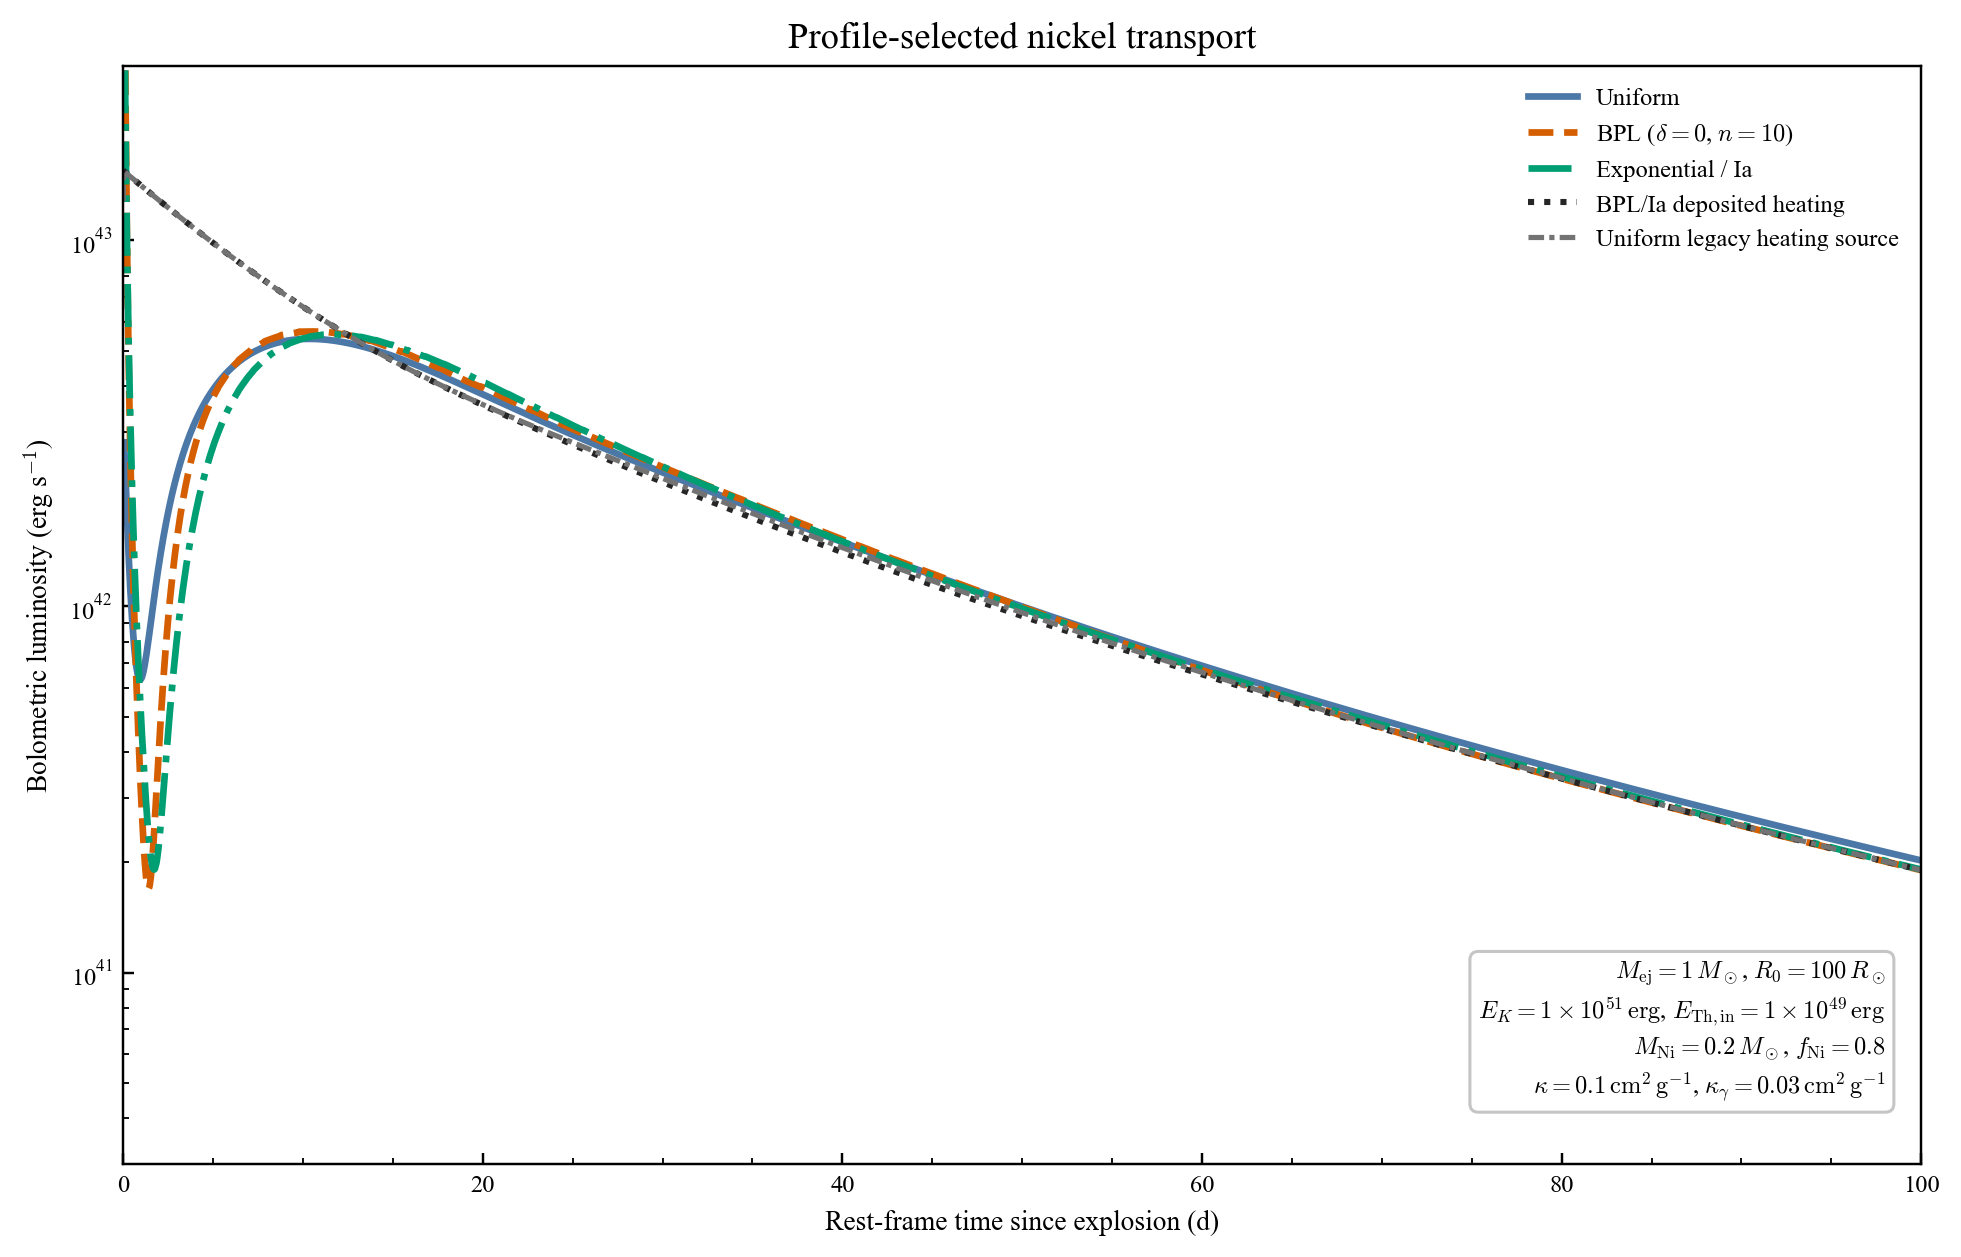
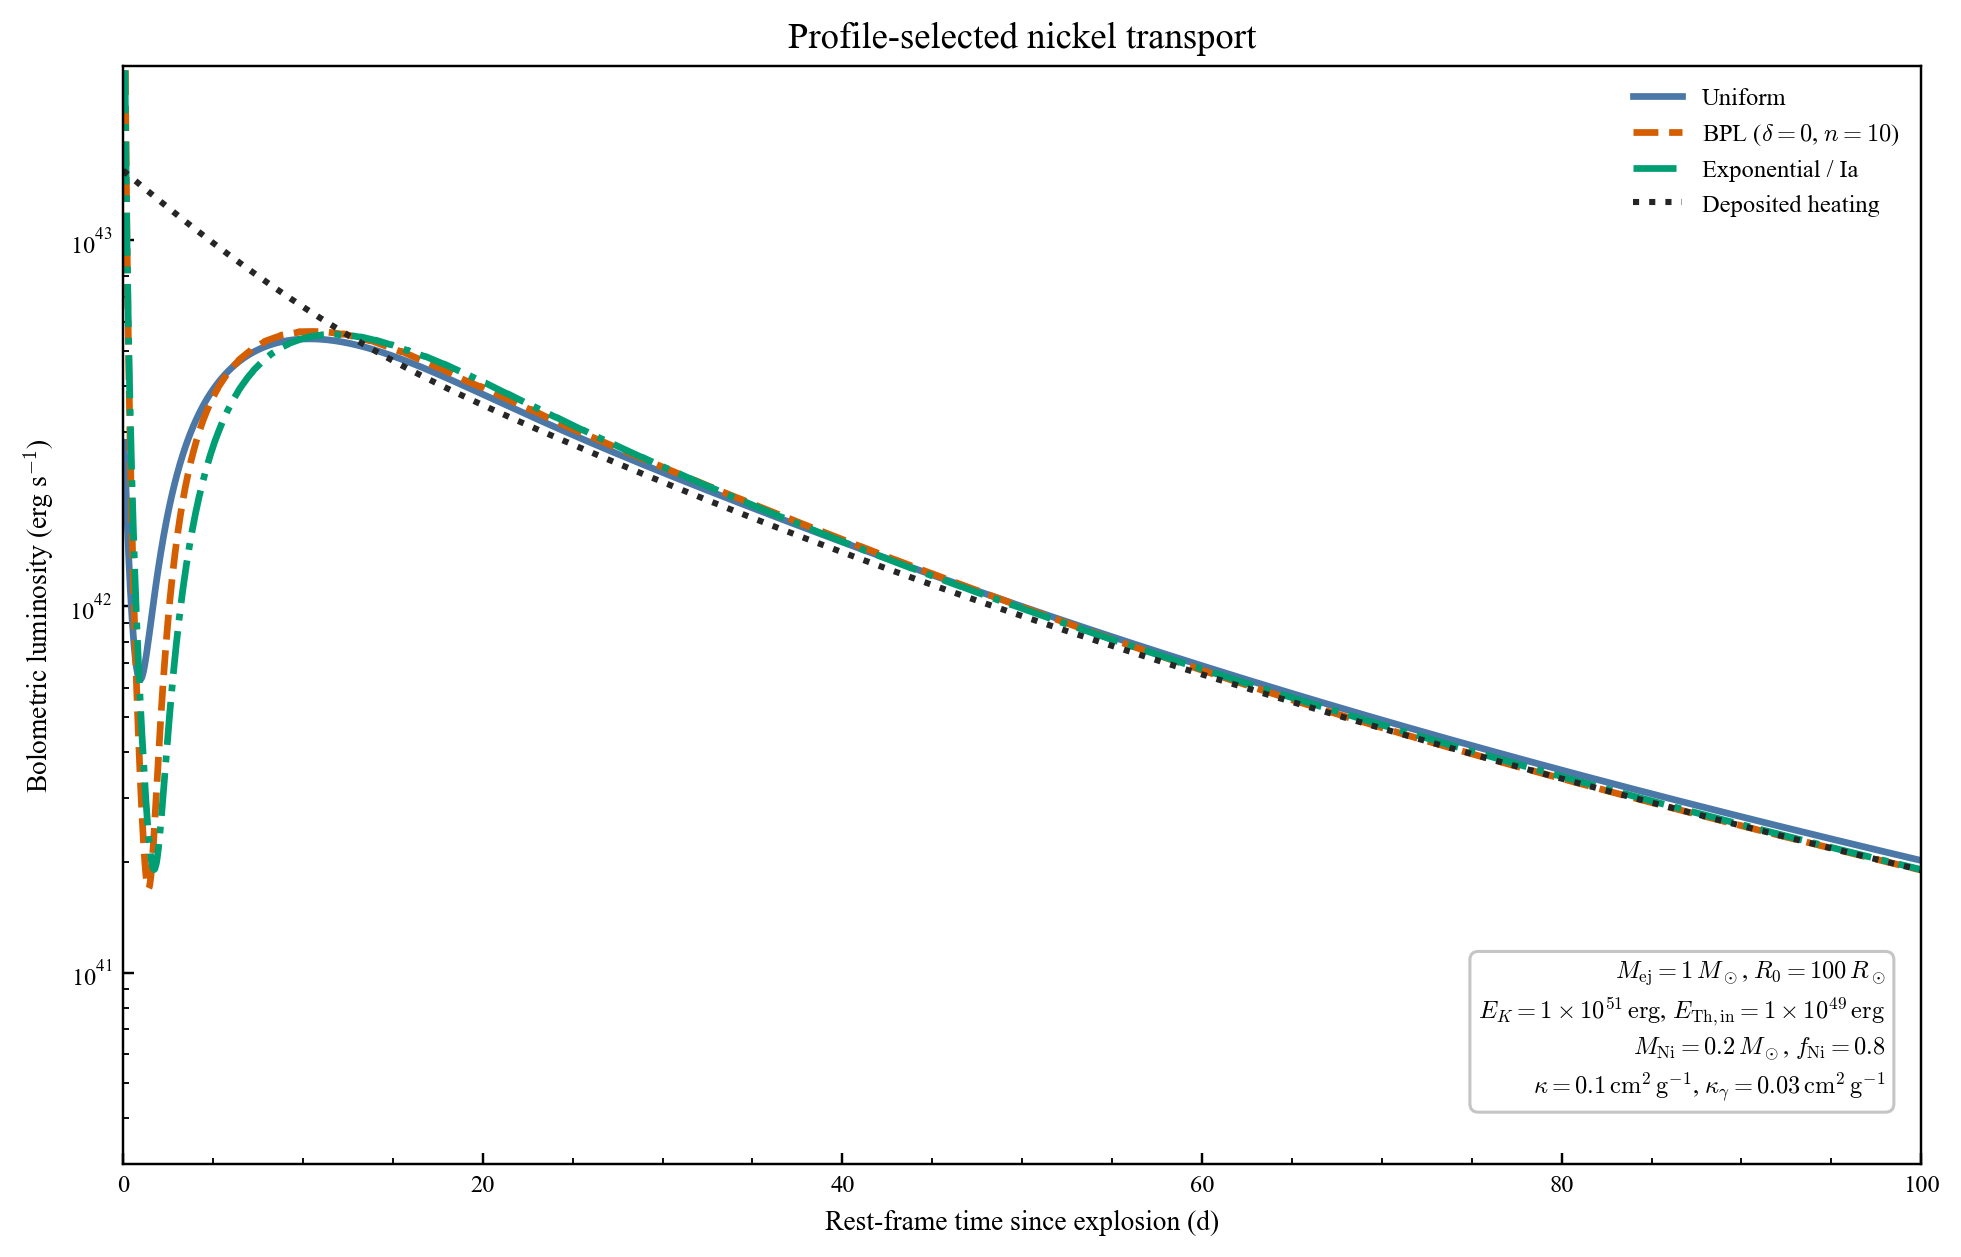
Polish changelog figure and README branding

diff --git a/scripts/plot_changelog_v0_2_density_profiles.py b/scripts/plot_changelog_v0_2_density_profiles.py
@@ -21,8 +21,6 @@ from transfit.constants import (
     EPSILON_NI,
     M_SUN,
     R_SUN,
-    TAU_CO,
-    TAU_NI,
 )
 from transfit.models.nickel import (
     _PROFILE_Q_MAX,
@@ -178,10 +176,8 @@ def _solve_lightcurve(profile: str):
 
 def _radioactive_deposition(
     t_days: np.ndarray,
-    *,
-    legacy_uniform: bool = False,
 ) -> np.ndarray:
-    """Return the profile-selected historical or current heating source."""
+    """Return the deposited radioactive heating used by BPL/Ia transport."""
     t_s = np.asarray(t_days, dtype=float) * DAY
     t_gamma = np.sqrt(
         3.0
@@ -191,21 +187,10 @@ def _radioactive_deposition(
         / (4.0 * np.pi * (PARAMS["v_ej"] * 1.0e9) ** 2)
     )
 
-    if legacy_uniform:
-        deposition = np.zeros_like(t_s)
-        positive = t_s > 0.0
-        deposition[positive] = 1.0 - np.exp(
-            -(t_gamma / t_s[positive]) ** 2
-        )
-        specific_heating = (
-            (EPSILON_NI - EPSILON_CO) * np.exp(-t_s / TAU_NI)
-            + EPSILON_CO * np.exp(-t_s / TAU_CO) * deposition
-        )
-    else:
-        specific_heating = (
-            (EPSILON_NI - EPSILON_CO)
-            * _radioactive_heating_shape(t_s, t_gamma)
-        )
+    specific_heating = (
+        (EPSILON_NI - EPSILON_CO)
+        * _radioactive_heating_shape(t_s, t_gamma)
+    )
     return PARAMS["M_ni"] * M_SUN * specific_heating
 
 
@@ -233,16 +218,7 @@ def plot_lightcurve_effect() -> Path:
         color="0.15",
         linestyle=":",
         linewidth=2.0,
-        label=r"BPL/Ia deposited heating",
-        zorder=2,
-    )
-    ax.plot(
-        heating_time,
-        _radioactive_deposition(heating_time, legacy_uniform=True),
-        color="0.45",
-        linestyle=(0, (3, 1, 1, 1)),
-        linewidth=1.7,
-        label=r"Uniform legacy heating source",
+        label="Deposited heating",
         zorder=2,
     )
 

diff --git a/README.md b/README.md
@@ -21,6 +21,9 @@ transient light curves. It provides a compact interface for bolometric and
 multi-band data, with built-in nickel, magnetar, magnetar-plus-nickel, and CSM
 interaction models.
 
+**Latest updates:** [Changelog](docs/changelog.md) ·
+[中文更新日志](docs/changelog_chinese.md)
+
 ## Features
 
 - Physical light-curve models with bolometric luminosity, effective
@@ -407,7 +410,6 @@ Full details are available in [API and parameter reference](docs/api_reference.m
 
 - [Tutorial notebook](examples/tutorial.ipynb)
 - [API and parameter reference](docs/api_reference.md)
-- [Changelog](docs/changelog.md)
 
 ## Contact
 
@@ -480,3 +482,9 @@ archivePrefix = {arXiv},
 
 Parts of the code and documentation in this project were generated with
 assistance from OpenAI Codex.
+
+<p align="center">
+  <img src="docs/assets/logos/ccnu-logo.jpeg" height="120" alt="Central China Normal University logo">
+  &nbsp;&nbsp;&nbsp;&nbsp;
+  <img src="docs/assets/logos/ccnu-astronomy-logo.png" height="120" alt="CCNU Institute of Astrophysics logo">
+</p>
